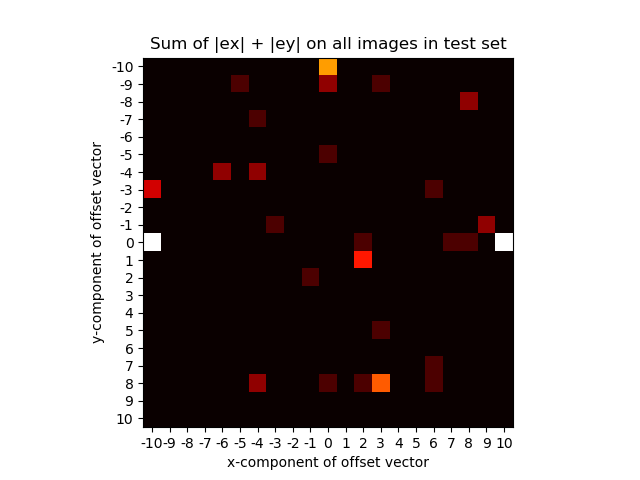
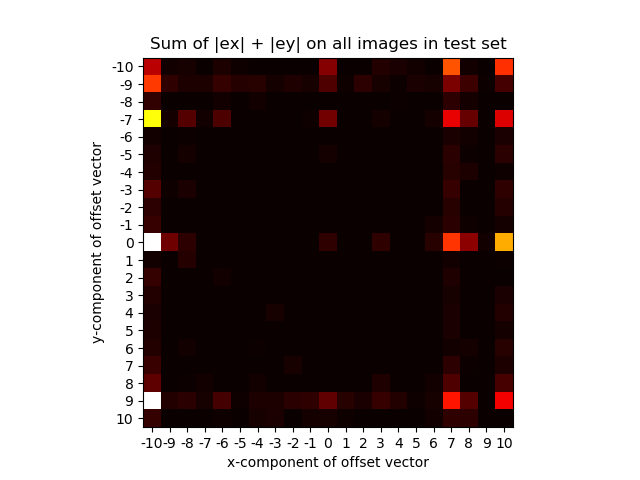
both models work for max_offset_32 now, style cleaned up a bit

diff --git a/max_offset_32/2frame_tracking_regression.py b/max_offset_32/2frame_tracking_regression.py
@@ -154,9 +154,8 @@ class Network(nn.Module):
                                kernel_size=3, stride=2)
         self.conv3_bn = nn.BatchNorm2d(num_features=64)
         self.fc1 = nn.Linear(in_features=64*31*31, out_features=120)
-        # self.fc2 = nn.Linear(in_features=120, out_features=60)
-        # self.out = nn.Linear(in_features=60, out_features=2)
-        self.out = nn.Linear(in_features=120, out_features=2) # TODO new
+        self.out = nn.Linear(in_features=120, out_features=2)
+    
     def forward(self, t):
         # (1) convolutional layer
         t = self.conv1(t)
@@ -173,16 +172,10 @@ class Network(nn.Module):
         t = self.conv3_bn(t)
         t = F.relu(t)
 
-        #print('after conv layers: t.shape =', t.shape)
-        
-        # (3) fully connected layer
+        # (4) fully connected layer
         t = t.reshape(-1, 64*31*31)
         t = self.fc1(t)
         t = F.relu(t)
-
-        # (4) fully connected layer
-        #t = self.fc2(t)
-        #t = F.relu(t)
 
         # (5) output layer
         t = self.out(t)
@@ -331,13 +324,16 @@ with torch.no_grad():
                 vyp = pred[1].int().item()
                 vx = label[0].int().item()
                 vy = label[1].int().item()
-                # save an image with bounding boxes
-                # actual in green, predicted in blue
+                
+                # load image to draw bounding boxes on
                 images = images.cpu()
                 img = images[0].numpy()
                 img_trans = img[3:,:,:]
                 img_trans = np.transpose(img_trans, (1, 2, 0))
                 img_trans = cv2.resize(img_trans, (256, 256))
+                
+                # draw the bounding boxes
+                # actual in green, predicted in blue
                 img_rect = cv2.rectangle(
                     img=img_trans,
                     pt1=(64+vx, 64+vy),
@@ -350,6 +346,8 @@ with torch.no_grad():
                     pt2=(64+128+vxp, 64+128+vyp),
                     color=(255, 0, 0),
                     thickness=1)
+                
+                # save error image, increment error count
                 imgname = 'err_' + str(errcount) + '.jpg'
                 cv2.imwrite(os.path.join(reportdir + 'errors/', imgname),
                     img_rect)
@@ -380,8 +378,17 @@ plt.imshow(errmap, cmap='hot', interpolation='nearest')
 plt.xlabel('x-component of offset vector')
 plt.ylabel('y-component of offset vector')
 plt.title('Sum of |ex| + |ey| on all images in test set')
-plt.xticks(range(65), range(-32, 33))
-plt.yticks(range(65), range(-32, 33))
+
+# create ticks vector
+ticks = []
+for i in range(-32, 33):
+    if i % 8 == 0:
+        ticks.append(i)
+    else:
+        ticks.append(None)
+
+plt.xticks(range(65), ticks)
+plt.yticks(range(65), ticks)
 plt.savefig(os.path.join(reportdir, 'errmap_regression.png'))
 
 

diff --git a/max_offset_32/2frame_tracking_classifier.py b/max_offset_32/2frame_tracking_classifier.py
@@ -173,18 +173,16 @@ class Network(nn.Module):
         t = self.conv3_bn(t)
         t = F.relu(t)
 
-        #print('after conv layers: t.shape =', t.shape)
-        
-        # (3) fully connected layer
+        # (4) fully connected layer
         t = t.reshape(-1, 64*31*31)
         t = self.fc1(t)
         t = F.relu(t)
 
-        # (4) fully connected layer
+        # (5) fully connected layer
         t = self.fc2(t)
         t = F.relu(t)
 
-        # (5) output layer
+        # (6) output layer
         t = self.out(t)
         t = t.reshape(-1, 2, 65)
         return t
@@ -250,7 +248,7 @@ if training_on:
                     images = images.cuda()
                     labels = labels.cuda()
                 outputs = network(images)
-                preds = outputs.argmax(dim=2) # i think this is correct?
+                preds = outputs.argmax(dim=2)
                 labels += 32
                 x_diff = preds[:,0] - labels[:,0]
                 y_diff = preds[:,1] - labels[:,1]
@@ -333,14 +331,17 @@ with torch.no_grad():
                 vyp = pred[1].int().item()
                 vx = label[0].int().item()
                 vy = label[1].int().item()
-                # save an image with bounding boxes
-                # actual in green, predicted in blue
+
+                # load image to draw bounding boxes on
                 images = images.cpu()
                 img = images[0].numpy()
                 img_trans = img[3:,:,:]
                 img_trans = np.transpose(img_trans, (1, 2, 0))
                 img_trans = cv2.resize(img_trans, (256, 256))
                 img_trans = img_trans.astype('uint8')
+                
+                # draw the bounding boxes
+                # actual in green, predicted in blue
                 img_rect = cv2.rectangle(
                     img_trans,
                     pt1=(64+vx, 64+vy),
@@ -353,6 +354,8 @@ with torch.no_grad():
                     pt2=(64+128+vxp, 64+128+vyp),
                     color=(255, 0, 0),
                     thickness=1)
+                
+                # save error image, increment error count
                 imgname = 'err_' + str(errcount) + '.jpg'
                 cv2.imwrite(os.path.join(reportdir + 'errors/', imgname),
                     img_rect)
@@ -383,8 +386,17 @@ plt.imshow(errmap, cmap='hot', interpolation='nearest')
 plt.xlabel('x-component of offset vector')
 plt.ylabel('y-component of offset vector')
 plt.title('Sum of |ex| + |ey| on all images in test set')
-plt.xticks(range(65), range(-32, 33))
-plt.yticks(range(65), range(-32, 33))
+
+# create ticks vector
+ticks = []
+for i in range(-32, 33):
+    if i % 8 == 0:
+        ticks.append(i)
+    else:
+        ticks.append(None)
+
+plt.xticks(range(65), ticks)
+plt.yticks(range(65), ticks)
 plt.savefig(os.path.join(reportdir, 'errmap_classifier.png'))
 
 

diff --git a/max_offset_10/2frame_tracking_classifier.py b/max_offset_10/2frame_tracking_classifier.py
@@ -172,18 +172,16 @@ class Network(nn.Module):
         t = self.conv3_bn(t)
         t = F.relu(t)
 
-        #print('after conv layers: t.shape =', t.shape)
-        
-        # (3) fully connected layer
+        # (4) fully connected layer
         t = t.reshape(-1, 64*31*31)
         t = self.fc1(t)
         t = F.relu(t)
 
-        # (4) fully connected layer
+        # (5) fully connected layer
         t = self.fc2(t)
         t = F.relu(t)
 
-        # (5) output layer
+        # (6) output layer
         t = self.out(t)
         t = t.reshape(-1, 2, 21)
         return t
@@ -249,7 +247,7 @@ if training_on:
                     images = images.cuda()
                     labels = labels.cuda()
                 outputs = network(images)
-                preds = outputs.argmax(dim=2) # i think this is correct?
+                preds = outputs.argmax(dim=2)
                 labels += 10
                 correct += labels.eq(preds).sum().item()
                 off_by_one_pos = labels.eq(preds + 1).sum().item()
@@ -313,13 +311,16 @@ with torch.no_grad():
                 vyp = pred[1].item()
                 vx = label[0].item()
                 vy = label[1].item()
-                # save an image with bounding boxes
-                # actual in green, predicted in blue
+
+                # load image to draw bounding boxes on
                 images = images.cpu()
                 img = images[0].numpy()
                 img_trans = img[3:,:,:]
                 img_trans = np.transpose(img_trans, (1, 2, 0))
                 img_trans = cv2.resize(img_trans, (256, 256))
+                
+                # draw the bounding boxes
+                # actual in green, predicted in blue
                 img_rect = cv2.rectangle(
                     img=img_trans,
                     pt1=(64+vx, 64+vy),
@@ -332,6 +333,8 @@ with torch.no_grad():
                     pt2=(64+128+vxp, 64+128+vyp),
                     color=(255, 0, 0),
                     thickness=1)
+
+                # save error image, increment error count
                 imgname = 'err_' + str(errcount) + '.jpg'
                 cv2.imwrite(os.path.join(reportdir + 'errors/', imgname),
                     img_rect)

diff --git a/max_offset_10/2frame_tracking_regression.py b/max_offset_10/2frame_tracking_regression.py
@@ -172,18 +172,16 @@ class Network(nn.Module):
         t = self.conv3_bn(t)
         t = F.relu(t)
 
-        #print('after conv layers: t.shape =', t.shape)
-        
-        # (3) fully connected layer
+        # (4) fully connected layer
         t = t.reshape(-1, 64*31*31)
         t = self.fc1(t)
         t = F.relu(t)
 
-        # (4) fully connected layer
+        # (5) fully connected layer
         t = self.fc2(t)
         t = F.relu(t)
 
-        # (5) output layer
+        # (6) output layer
         t = self.out(t)
         return t
 
@@ -310,13 +308,16 @@ with torch.no_grad():
                 vyp = pred[1].item()
                 vx = label[0].item()
                 vy = label[1].item()
-                # save an image with bounding boxes
-                # actual in green, predicted in blue
+                
+                # load image to draw bounding boxes on
                 images = images.cpu()
                 img = images[0].numpy()
                 img_trans = img[3:,:,:]
                 img_trans = np.transpose(img_trans, (1, 2, 0))
                 img_trans = cv2.resize(img_trans, (256, 256))
+                
+                # draw the bounding boxes
+                # actual in green, predicted in blue
                 img_rect = cv2.rectangle(
                     img=img_trans,
                     pt1=(64+vx, 64+vy),
@@ -329,6 +330,8 @@ with torch.no_grad():
                     pt2=(64+128+vxp, 64+128+vyp),
                     color=(255, 0, 0),
                     thickness=1)
+
+                # save error image, increment error count
                 imgname = 'err_' + str(errcount) + '.jpg'
                 cv2.imwrite(os.path.join(reportdir + 'errors/', imgname),
                     img_rect)
